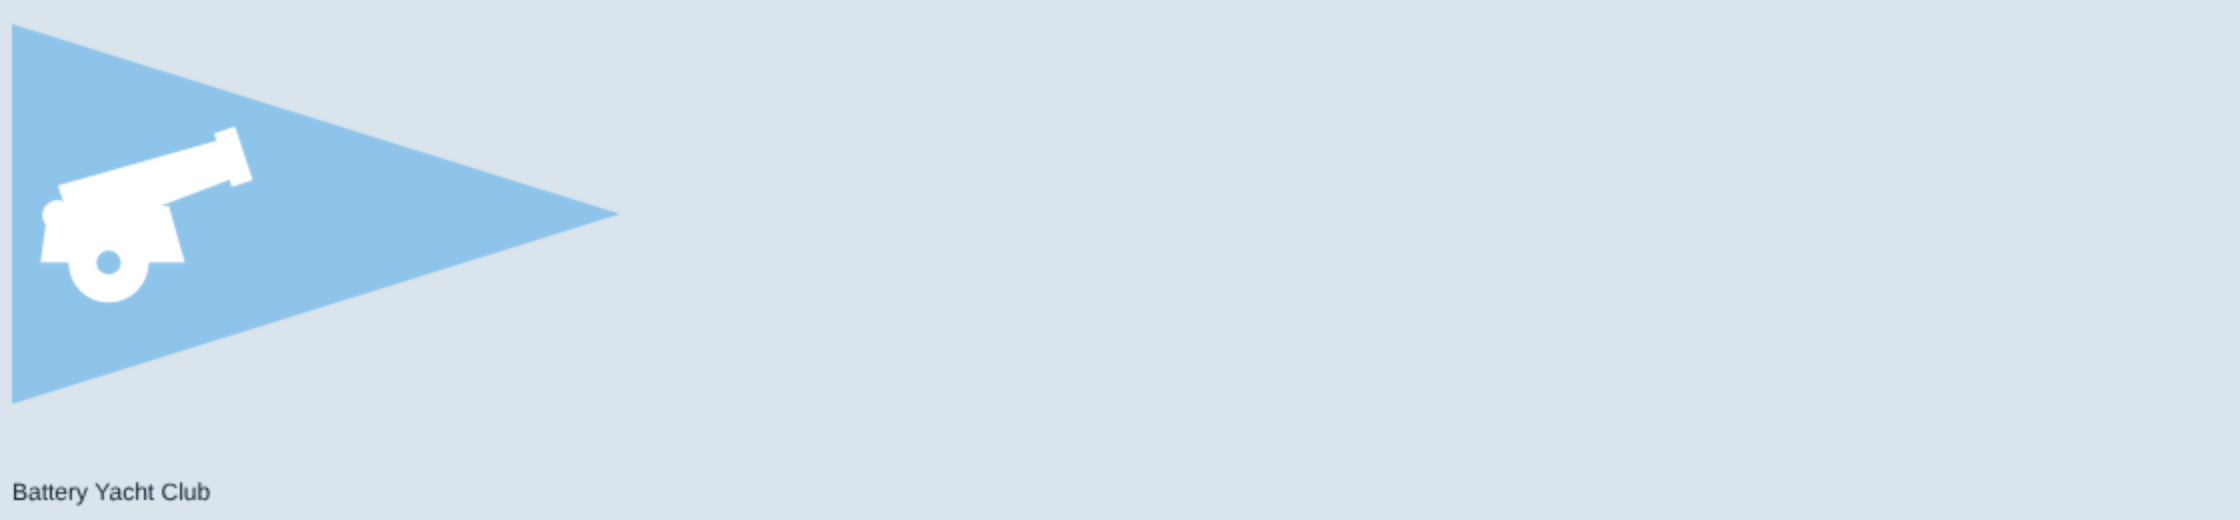
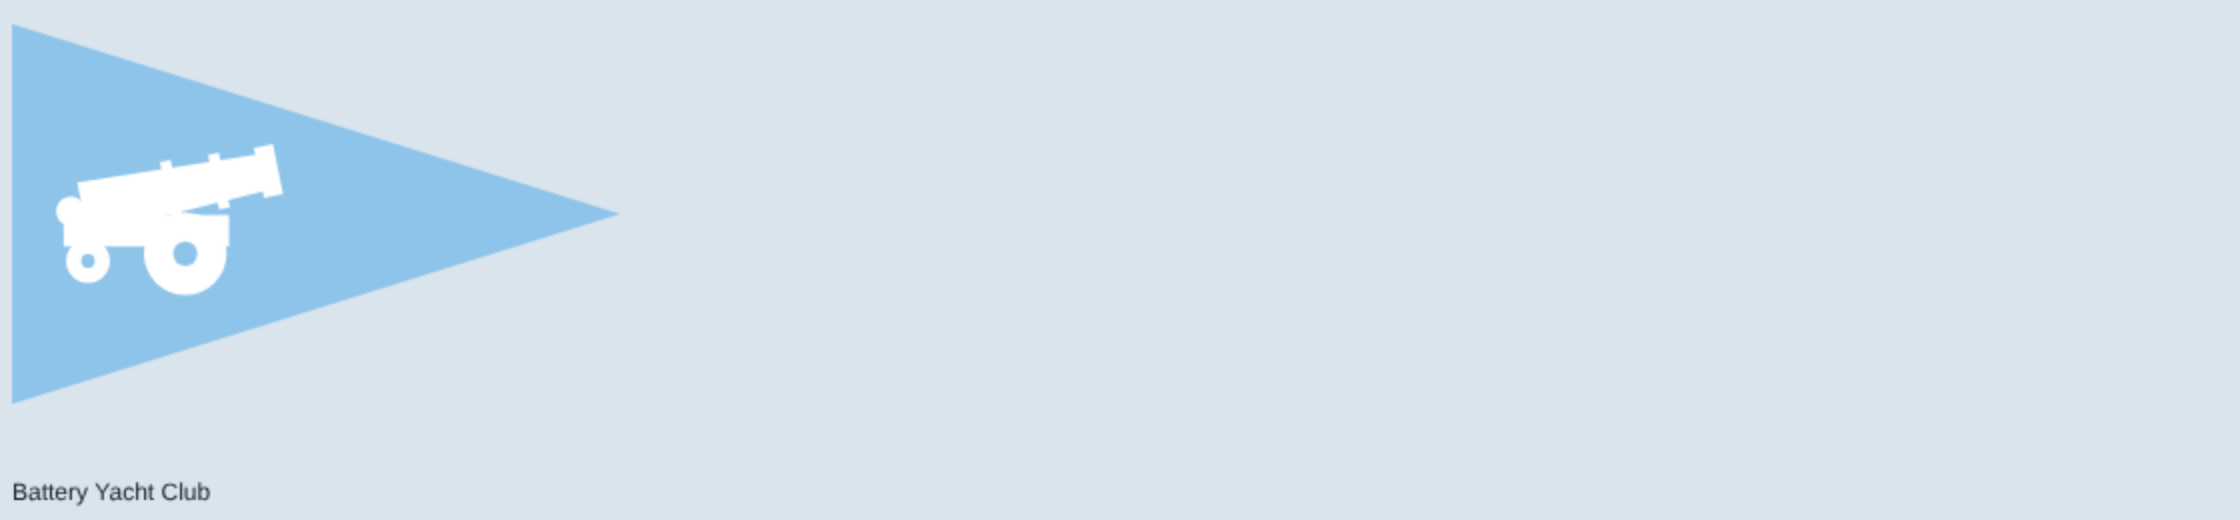
Burgees: Battery cannon redrawn, simplified from the owner's reference (long barrel, flared muzzle, bands, low carriage, two wheels)
Claude-Session: https://claude.ai/code/session_012Uu5QjYRsEpBxuz7xgHWhs

Changed region(s): [[0.0, 0.2462, 0.125, 0.5846]]

diff --git a/src/render/burgeeArt.ts b/src/render/burgeeArt.ts
@@ -79,14 +79,14 @@ function wheel(g: G, cx: number, cy: number, r: number, c: string, ground: strin
   dot(g, c, 0, 0, r * 0.22); dot(g, ground, 0, 0, r * 0.09); g.restore();
 }
 
-/** A cannon on its carriage, muzzle to the right and raised; w is its length. */
+/** A cannon on a truck carriage, simplified from the owner's reference: a tapering barrel with a flared muzzle and two bands, a ball at the breech, a solid carriage on a small and a large wheel; w is its length. */
 function cannon(g: G, x: number, y: number, w: number, c: string, ground: string): void {
   g.save(); g.translate(x, y); g.scale(w, w); g.fillStyle = c;
-  g.save(); g.translate(0.3, 0.3); g.rotate(-0.32); // the barrel: thick at the breech, tapering to the muzzle, a ring at each end
-  g.beginPath(); g.moveTo(-0.22, -0.14); g.lineTo(0.66, -0.1); g.lineTo(0.66, 0.1); g.lineTo(-0.22, 0.14); g.closePath(); g.fill();
-  g.fillRect(0.6, -0.14, 0.11, 0.28); dot(g, c, -0.27, 0, 0.075); g.restore();
-  g.beginPath(); g.moveTo(0.0, 0.34); g.lineTo(0.6, 0.34); g.lineTo(0.68, 0.62); g.lineTo(-0.04, 0.62); g.closePath(); g.fill(); // the carriage
-  dot(g, c, 0.3, 0.62, 0.2); dot(g, ground, 0.3, 0.62, 0.06); g.restore();
+  g.save(); g.translate(0.55, 0.2); g.rotate(-0.2); // the barrel, long, tapering, a flared muzzle and two bands
+  g.beginPath(); g.moveTo(-0.38, -0.11); g.lineTo(0.42, -0.075); g.lineTo(0.42, 0.075); g.lineTo(-0.38, 0.11); g.closePath(); g.fill();
+  g.fillRect(0.36, -0.105, 0.08, 0.21); g.fillRect(-0.03, -0.125, 0.045, 0.25); g.fillRect(0.17, -0.115, 0.045, 0.23); dot(g, c, -0.43, 0, 0.06); g.restore();
+  g.beginPath(); g.moveTo(0.1, 0.3); g.lineTo(0.78, 0.3); g.lineTo(0.78, 0.43); g.lineTo(0.1, 0.43); g.closePath(); g.fill(); // the carriage, low
+  dot(g, c, 0.2, 0.49, 0.09); dot(g, ground, 0.2, 0.49, 0.028); dot(g, c, 0.6, 0.46, 0.17); dot(g, ground, 0.6, 0.46, 0.05); g.restore();
 }
 
 /** A border just inside the cut (a fimbriation, as classic burgees have): d is its width as a share of the hoist. */
@@ -169,7 +169,7 @@ export const PARODY_BURGEES: Burgee[] = [
     draw: (g, W, H) => { fill(g, W, H, '#14295c'); border(g, W, H, 'pennant', '#c8102e', 0.025);
       shark(g, W * 0.255, H * 0.53, H * 0.5, WHITE); } },
   { id: 'pyc', shape: 'pennant', ratio: 1.6, // Battery Yacht Club (the Army's old coast-defense post): a light-blue field and one white cannon toward the hoist
-    draw: (g, W, H) => { fill(g, W, H, '#8fc4ea'); cannon(g, W * 0.06, H * 0.3, W * 0.33, WHITE, '#8fc4ea'); } },
+    draw: (g, W, H) => { fill(g, W, H, '#8fc4ea'); cannon(g, W * 0.045, H * 0.31, W * 0.4, WHITE, '#8fc4ea'); } },
   { id: 'ssyc', shape: 'pennant', ratio: 1.5, // artsy: cream, teal and willow green; one drooping branch
     draw: (g, W, H) => { fill(g, W, H, '#f0e9d0'); rect(g, '#1f8c8a', 0, 0, W * 0.07, H); stroke(g, '#3d7a35', H * 0.07, [W * 0.12, H * 0.3], [W * 0.3, H * 0.3]); for (const x of [0.15, 0.21, 0.27]) stroke(g, '#3d7a35', H * 0.06, [W * x, H * 0.3], [W * x, H * 0.62]); } },
   { id: 'myc', shape: 'pennant', ratio: 1.5, // established: blue, mountain green, a white cap
